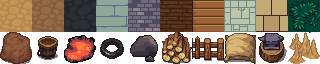
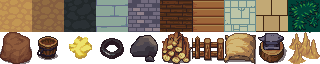
corrige explosão

Changed region(s): [[0.1875, 0.5312, 0.3125, 1.0]]

diff --git a/js/Map.js b/js/Map.js
@@ -327,6 +327,9 @@ Map.prototype.alteraLevel = function(map, ctx){
       }
     }
   }
+  if (this.cells[11][13] != 3){
+    explosao.tempo = 0;
+  }
   if (this.cells[11][13] == 3 && explosao.tempo < 16){
   this.imageLib.drawImageTile(ctx,
     "explosao",

diff --git a/index.html b/index.html
@@ -16,6 +16,7 @@
     </style>
   </head>
   <body>
+    <h2>Jogo Grid</h1>
     <canvas></canvas>
     <script>
       init();
